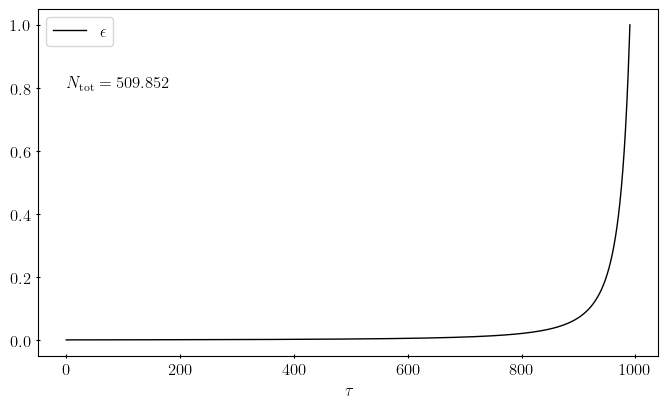
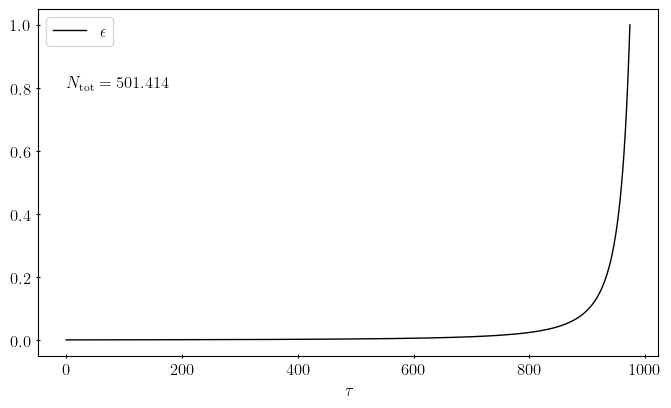
Added axes insets to multiple plots

diff --git a/project-3/inflation.py b/project-3/inflation.py
@@ -97,6 +97,19 @@ class InflationModel:
 			ax1.plot(tau, psi/self.psi_i, label='Exact')
 			ax1.set_ylabel(r'$\psi/\psi_i$')
 
+			if xlim is not None:
+
+				axins = ax1.inset_axes([0.5, 0.25, 0.3, 0.5])
+				axins.plot(tau, psi/self.psi_i)
+
+				x1, x2, y1, y2 = 2697, 2713, -0.07, 0.07
+
+				axins.set_xlim([x1, x2])
+				axins.set_ylim([y1, y2])
+				axins.tick_params(labelbottom=False)
+
+				ax1.indicate_inset_zoom(axins, ec='black')
+
 			ax2.plot(tau, ln_a_ai)
 			ax2.set_ylabel(r'$\ln\left(\frac{a}{a_i}\right)$')
 
@@ -128,13 +141,26 @@ class InflationModel:
 			elif self.tau_end is not None:
 
 				ax1.plot([tau_end, tau_end], [- 0.1, 1.1], ls='dotted', color='black')
-				# ax1.set_ylim([- 0.1, 1.1])
+				ax1.set_ylim([- 0.1, 1.1])
 
-				ax2.plot([tau_end, tau_end], [- 5, np.max(self.ln_a_ai) + np.max(self.ln_a_ai) * 0.05], ls='dotted', color='black')
-				# ax2.set_ylim([- 5, np.max(self.ln_a_ai) + np.max(self.ln_a_ai) * 0.05])
+				ax2.plot([tau_end, tau_end], [- 5, np.max(self.ln_a_ai) * 1.1], ls='dotted', color='black')
+				ax2.set_ylim([- 5, np.max(self.ln_a_ai) * 1.1])
 
 				ax3.plot([tau_end, tau_end], [- 0.1, 1.1], ls='dotted', color='black')
-				# ax3.set_ylim([- 0.1, 1.1])
+				ax3.set_ylim([- 0.1, 1.1])
+
+			if self.name == 'phi2_' and not compare_to_SRA:
+
+				axins = ax1.inset_axes([0.75, 0.2, 0.2, 0.7])
+				axins.plot(tau, psi / self.psi_i)
+
+				x1, x2, y1, y2 = 1010, 1410, -0.02, 0.02
+
+				axins.set_xlim([x1, x2])
+				axins.set_ylim([y1, y2])
+				axins.tick_params(labelbottom=False)
+
+				ax1.indicate_inset_zoom(axins, ec='black')
 
 			if tight_layout:
 
@@ -144,7 +170,7 @@ class InflationModel:
 
 				fig.subplots_adjust(hspace=0.05)
 
-			# ax3.set_xlim(xlim)
+			ax3.set_xlim(xlim)
 
 			if xlim is not None:
 
@@ -169,7 +195,7 @@ class InflationModel:
 
 	def num_e_folds(self, text_xpos=0, text_ypos=0.8, guess=500, plot=True):
 
-		end_of_inflation_idx = np.where(self.epsilon <= 1)[0][-1]
+		end_of_inflation_idx = np.where(self.epsilon >= 1)[0][0]
 
 		self.N_tot = self.ln_a_ai[end_of_inflation_idx]
 		self.inflation_idx = self.epsilon <= 1
@@ -178,8 +204,7 @@ class InflationModel:
 
 		if guess is not None:
 
-			N_tot_relerr = np.abs(guess - self.N_tot) / np.abs(self.N_tot)
-			print(f'with rel. err. of N_tot: {N_tot_relerr:.3e}\n')
+			print(f'where we guessed N_tot to be {guess}')
 
 		if plot:
 
@@ -198,7 +223,7 @@ class InflationModel:
 			fig.savefig('figures/' + self.name + 'Ntot-compare-with-SRA.pdf', bbox_inches='tight')
 			fig.savefig('figures/' + self.name + 'Ntot-compare-with-SRA.png', bbox_inches='tight')
 
-	def pressure_energy_density_ratio(self, xlim=None):
+	def pressure_energy_density_ratio(self, xlim=None, zoomed=False):
 
 		v = self.potential(self.psi, self.psi_i)
 
@@ -212,6 +237,19 @@ class InflationModel:
 		ax.set_xlabel(r'$\tau$')
 		ax.set_ylabel(r'$\frac{p_\phi}{\rho_{\phi} c^2}$')
 		ax.set_xlim(xlim)
+
+		if zoomed:
+
+			axins = ax.inset_axes([0.2, 0.3, 0.5, 0.4])
+			axins.plot(self.tau, w_phi)
+
+			x1, x2, y1, y2 = 2690, 2730, -1.05, 1.05
+
+			axins.set_xlim([x1, x2])
+			axins.set_ylim([y1, y2])
+			axins.tick_params(labelbottom=False)
+
+			ax.indicate_inset_zoom(axins, ec='black')
 
 		fig.savefig('figures/' + self.name + 'w_phi.pdf', bbox_inches='tight')
 		fig.savefig('figures/' + self.name + 'w_phi.png', bbox_inches='tight')

diff --git a/project-3/inflation_models.py b/project-3/inflation_models.py
@@ -92,8 +92,8 @@ starobinsky.plot_solutions()
 starobinsky.plot_solutions(xlim=[2680, 2750])
 starobinsky.set_epsilon_parameter(staro_epsilon, print_tau_end=True)
 starobinsky.set_eta_parameter(staro_eta)
-starobinsky.num_e_folds(guess=None, text_ypos=0.6)
-starobinsky.pressure_energy_density_ratio(xlim=[2685, 2705])
+starobinsky.num_e_folds(guess=None, text_ypos=0.6, plot=False)
+starobinsky.pressure_energy_density_ratio(zoomed=True)#xlim=[2685, 2705])
 starobinsky.epsilon_remainding_e_folds()
 starobinsky.plot_tensor_to_scalar_ratio()
 
